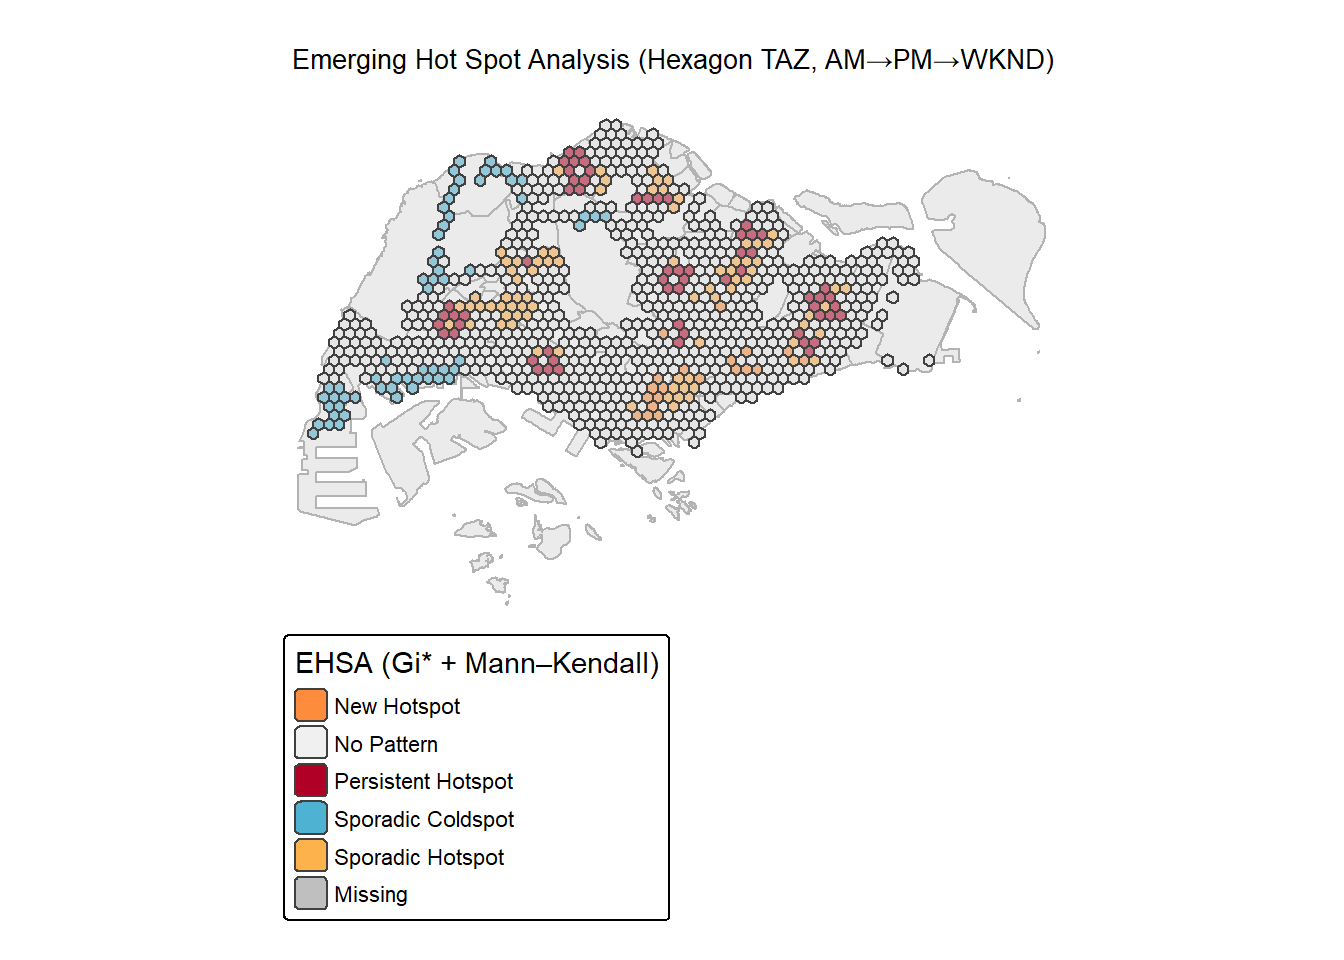
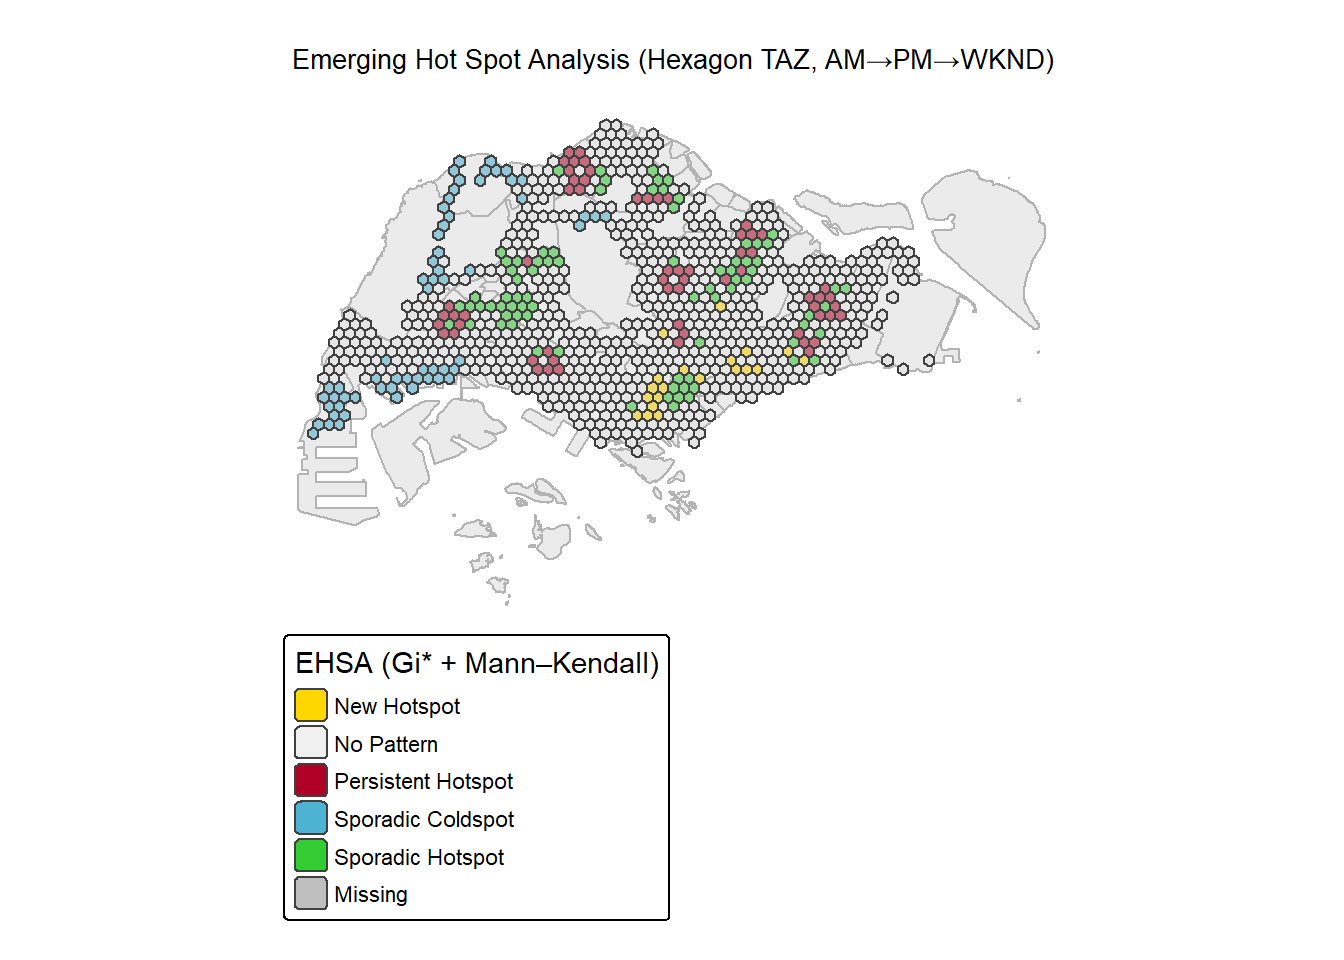
Full Assignment

diff --git a/_site/Take_Home_Exercise/Take_Home_Ex02/Take_Home_Ex02.html b/_site/Take_Home_Exercise/Take_Home_Ex02/Take_Home_Ex02.html
@@ -309,7 +309,7 @@ pre > code.sourceCode > span > a:first-child::before { text-decoration: underlin
     <div>
     <div class="quarto-title-meta-heading">Modified</div>
     <div class="quarto-title-meta-contents">
-      <p class="date-modified">October 22, 2025</p>
+      <p class="date-modified">October 23, 2025</p>
     </div>
   </div>
     
@@ -1004,6 +1004,15 @@ Calling <code>run_lisa_period("WKD_AM")</code> runs the analysis for <strong>wee
 </section>
 <section id="emerging-hot-spot-analysis-ehsa" class="level2" data-number="7">
 <h2 data-number="7" class="anchored" data-anchor-id="emerging-hot-spot-analysis-ehsa"><span class="header-section-number">7</span> Emerging Hot Spot Analysis (EHSA)</h2>
+<p>The code below converts the <code>PERIOD</code> column in the <code>hex_period_sf</code> dataset into a categorical variable (factor) with a defined order of levels.</p>
+<ol type="1">
+<li>The <code>mutate()</code> function is used to modify the existing dataset <code>hex_period_sf</code>.<br>
+</li>
+<li>The <code>PERIOD</code> variable is converted into a factor using <code>factor()</code>.<br>
+</li>
+<li>The <code>levels</code> argument explicitly sets the desired order of categories as <code>"WKD_AM"</code>, <code>"WKD_PM"</code>, and <code>"WKND"</code>.</li>
+</ol>
+<p>This ensures that when plotting or summarizing data, the periods will appear in a consistent and logical order: weekday morning → weekday evening → weekend.</p>
 <div class="cell">
 <div class="sourceCode cell-code" id="cb32"><pre class="sourceCode r code-with-copy"><code class="sourceCode r"><span id="cb32-1"><a href="#cb32-1" aria-hidden="true" tabindex="-1"></a>hex_period_sf <span class="ot">&lt;-</span> hex_period_sf <span class="sc">%&gt;%</span></span>
 <span id="cb32-2"><a href="#cb32-2" aria-hidden="true" tabindex="-1"></a><span class="fu">mutate</span>(<span class="at">PERIOD =</span> <span class="fu">factor</span>(PERIOD, <span class="at">levels =</span> <span class="fu">c</span>(<span class="st">"WKD_AM"</span>,<span class="st">"WKD_PM"</span>,<span class="st">"WKND"</span>)))</span></code><button title="Copy to Clipboard" class="code-copy-button"><i class="bi"></i></button></pre></div>
@@ -1029,6 +1038,7 @@ Calling <code>run_lisa_period("WKD_AM")</code> runs the analysis for <strong>wee
 </div>
 <section id="ehsa-2-local-gi-per-period-and-significance" class="level3" data-number="7.1">
 <h3 data-number="7.1" class="anchored" data-anchor-id="ehsa-2-local-gi-per-period-and-significance"><span class="header-section-number">7.1</span> EHSA 2 — Local Gi* (per period) and significance</h3>
+<p>This section performs the <strong>Local Gi*</strong> (Getis-Ord Gi*) analysis to identify statistically significant <em>hotspots</em> and <em>coldspots</em> of bus trip intensity for each time period (<code>PERIOD</code>).</p>
 <div class="cell">
 <div class="sourceCode cell-code" id="cb35"><pre class="sourceCode r code-with-copy"><code class="sourceCode r"><span id="cb35-1"><a href="#cb35-1" aria-hidden="true" tabindex="-1"></a>.z_to_sig <span class="ot">&lt;-</span> <span class="cf">function</span>(z, <span class="at">alpha =</span> <span class="fl">0.05</span>) {</span>
 <span id="cb35-2"><a href="#cb35-2" aria-hidden="true" tabindex="-1"></a>thr <span class="ot">&lt;-</span> <span class="fu">qnorm</span>(<span class="dv">1</span> <span class="sc">-</span> alpha<span class="sc">/</span><span class="dv">2</span>) <span class="co"># 1.96 for alpha=0.05</span></span>
@@ -1040,6 +1050,30 @@ Calling <code>run_lisa_period("WKD_AM")</code> runs the analysis for <strong>wee
 <span id="cb35-8"><a href="#cb35-8" aria-hidden="true" tabindex="-1"></a>}</span></code><button title="Copy to Clipboard" class="code-copy-button"><i class="bi"></i></button></pre></div>
 </div>
 <p>For each PERIOD: align to hex_base order, fill missing TRIPS with 0, run localG</p>
+<p>The code below performs the <strong>Local Gi*</strong> (Getis-Ord) hotspot analysis for each time period (<code>PERIOD</code>) to identify areas with significantly high or low bus trip activity.</p>
+<hr>
+<ol type="1">
+<li>The dataset <code>hex_period_sf</code> is used as input, and the geometry is removed using <code>st_drop_geometry()</code> since only attribute data is required for computation.<br>
+</li>
+<li>A <code>right_join()</code> aligns the trip data with a base hexagon layer (<code>hex_base</code>), ensuring all hexagons are included — even those with missing trip data.<br>
+</li>
+<li>The data is arranged by <code>PERIOD</code> and index (<code>.idx</code>) for consistent ordering.<br>
+</li>
+<li><code>mutate(TRIPS = replace_na(TRIPS, 0))</code> fills missing trip values with zeros to avoid calculation errors.<br>
+</li>
+<li>The dataset is grouped by <code>PERIOD</code>, meaning the hotspot analysis is performed separately for each time period.<br>
+</li>
+<li>Within each group, <code>spdep::localG()</code> calculates the <strong>Local Gi*</strong> z-scores based on the number of trips (<code>TRIPS</code>) and the spatial weights object (<code>lw_obj</code>).<br>
+</li>
+<li>The resulting z-scores are classified for statistical significance using the helper function <code>.z_to_sig()</code>.<br>
+</li>
+<li>The results are stored in a tibble containing the original attributes, computed z-scores (<code>z</code>), and significance category (<code>sig</code>).<br>
+</li>
+<li>After ungrouping, only relevant columns — <code>HEX_ID</code>, <code>PERIOD</code>, <code>.idx</code>, <code>TRIPS</code>, <code>z</code>, and <code>sig</code> — are retained.</li>
+</ol>
+<hr>
+<p><strong>In summary:</strong><br>
+This code computes the Local Gi* statistic for each hexagon across different time periods, identifying <strong>hotspots (high z-scores)</strong> and <strong>coldspots (low z-scores)</strong> based on the spatial distribution of bus trips.</p>
 <div class="cell">
 <div class="sourceCode cell-code" id="cb36"><pre class="sourceCode r code-with-copy"><code class="sourceCode r"><span id="cb36-1"><a href="#cb36-1" aria-hidden="true" tabindex="-1"></a>gi_by_period <span class="ot">&lt;-</span> hex_period_sf <span class="sc">%&gt;%</span></span>
 <span id="cb36-2"><a href="#cb36-2" aria-hidden="true" tabindex="-1"></a><span class="fu">st_drop_geometry</span>() <span class="sc">%&gt;%</span></span>
@@ -1057,6 +1091,40 @@ Calling <code>run_lisa_period("WKD_AM")</code> runs the analysis for <strong>wee
 </section>
 <section id="mannkendall-trend-category-assignment" class="level3" data-number="7.2">
 <h3 data-number="7.2" class="anchored" data-anchor-id="mannkendall-trend-category-assignment"><span class="header-section-number">7.2</span> Mann–Kendall trend &amp; category assignment</h3>
+<p>This code performs the <strong>Mann–Kendall trend test</strong> on the Local Gi* z-scores for each hexagon to detect temporal trends in hotspot and coldspot patterns over multiple periods.</p>
+<hr>
+<ol type="1">
+<li>The dataset <code>gi_by_period</code> (containing Local Gi* z-scores per hexagon and period) is arranged by <code>HEX_ID</code> and <code>PERIOD</code> to ensure chronological order.<br>
+</li>
+<li>The data is grouped by <code>HEX_ID</code>, so trend analysis is conducted <strong>individually for each hexagon</strong> across time.<br>
+</li>
+<li>The <code>summarise()</code> function computes several key statistics for each hexagon:
+<ul>
+<li><code>mk_tau</code>: The <strong>Kendall’s tau</strong> statistic from <code>Kendall::MannKendall(z)</code>, indicating the direction and strength of the trend:
+<ul>
+<li>Positive → increasing trend<br>
+</li>
+<li>Negative → decreasing trend<br>
+</li>
+<li>Near zero → no trend<br>
+</li>
+</ul></li>
+<li><code>mk_p</code>: The <strong>p-value</strong> of the test, assessing whether the trend is statistically significant.<br>
+</li>
+<li><code>latest_z</code>: The most recent z-score (<code>z</code>) value for that hexagon.<br>
+</li>
+<li><code>latest_sig</code>: The most recent significance classification (<code>sig</code>) value.<br>
+</li>
+<li><code>hot_count</code>: The total number of times the hexagon was identified as a <strong>hotspot</strong> (<code>sig == 1L</code>).<br>
+</li>
+<li><code>cold_count</code>: The total number of times it was identified as a <strong>coldspot</strong> (<code>sig == -1L</code>).</li>
+</ul></li>
+<li>The argument <code>.groups = "drop"</code> ensures that the grouped data is flattened after summarization.</li>
+</ol>
+<hr>
+<p><strong>In summary:</strong><br>
+This code evaluates whether each hexagon’s Local Gi* values show a statistically significant increasing or decreasing trend over time.<br>
+It produces a summary table (<code>mk_trends</code>) containing the Mann–Kendall statistics (<code>mk_tau</code>, <code>mk_p</code>), recent z-scores, and counts of hotspot or coldspot occurrences — which are later used for <strong>spatiotemporal hotspot classification</strong> in the EHSA (Emerging Hot Spot Analysis) framework.</p>
 <div class="cell">
 <div class="sourceCode cell-code" id="cb37"><pre class="sourceCode r code-with-copy"><code class="sourceCode r"><span id="cb37-1"><a href="#cb37-1" aria-hidden="true" tabindex="-1"></a>mk_trends <span class="ot">&lt;-</span> gi_by_period <span class="sc">%&gt;%</span></span>
 <span id="cb37-2"><a href="#cb37-2" aria-hidden="true" tabindex="-1"></a><span class="fu">arrange</span>(HEX_ID, PERIOD) <span class="sc">%&gt;%</span></span>
@@ -1072,6 +1140,60 @@ Calling <code>run_lisa_period("WKD_AM")</code> runs the analysis for <strong>wee
 <span id="cb37-12"><a href="#cb37-12" aria-hidden="true" tabindex="-1"></a>)</span></code><button title="Copy to Clipboard" class="code-copy-button"><i class="bi"></i></button></pre></div>
 </div>
 <p>EHSA rule-set (compact, robust for 3 time-slices)</p>
+<p>This function defines the rule-set for classifying <strong>Emerging Hot Spot Analysis (EHSA)</strong> categories based on spatial and temporal trends.<br>
+It integrates both spatial significance (hotspot or coldspot status) and temporal trends (from the Mann–Kendall test).</p>
+<hr>
+<p><strong>Function:</strong> <code>classify_ehsa(latest_sig, hot_count, cold_count, mk_tau, mk_p, alpha = 0.05)</code></p>
+<ol type="1">
+<li><strong>No Pattern Check</strong>
+<ul>
+<li>If there are no significant hotspot or coldspot occurrences (<code>hot_count + cold_count == 0</code>),<br>
+→ returns <code>"No Pattern"</code>.</li>
+</ul></li>
+<li><strong>Persistent Patterns</strong>
+<ul>
+<li>If all three time slices are significant hotspots → <code>"Persistent Hotspot"</code>.<br>
+</li>
+<li>If all three are significant coldspots → <code>"Persistent Coldspot"</code>.</li>
+</ul></li>
+<li><strong>Latest Slice = Hotspot (<code>latest_sig == 1L</code>)</strong>
+<ul>
+<li>If Mann–Kendall test is significant (<code>mk_p &lt; alpha</code>):
+<ul>
+<li>Positive trend (<code>mk_tau &gt; 0</code>) → <code>"Intensifying Hotspot"</code>.<br>
+</li>
+<li>Negative trend (<code>mk_tau &lt; 0</code>) → <code>"Diminishing Hotspot"</code>.<br>
+</li>
+</ul></li>
+<li>If only one slice shows a hotspot → <code>"New Hotspot"</code>.<br>
+</li>
+<li>Otherwise → <code>"Sporadic Hotspot"</code>.</li>
+</ul></li>
+<li><strong>Latest Slice = Coldspot (<code>latest_sig == -1L</code>)</strong>
+<ul>
+<li>If Mann–Kendall test is significant (<code>mk_p &lt; alpha</code>):
+<ul>
+<li>Negative trend (<code>mk_tau &lt; 0</code>) → <code>"Intensifying Coldspot"</code>.<br>
+</li>
+<li>Positive trend (<code>mk_tau &gt; 0</code>) → <code>"Diminishing Coldspot"</code>.<br>
+</li>
+</ul></li>
+<li>If only one slice shows a coldspot → <code>"New Coldspot"</code>.<br>
+</li>
+<li>Otherwise → <code>"Sporadic Coldspot"</code>.</li>
+</ul></li>
+<li><strong>Non-significant Latest Slice with Past Activity</strong>
+<ul>
+<li>If previous hotspots exist → <code>"Sporadic Hotspot"</code>.<br>
+</li>
+<li>If previous coldspots exist → <code>"Sporadic Coldspot"</code>.<br>
+</li>
+<li>Otherwise → <code>"No Pattern"</code>.</li>
+</ul></li>
+</ol>
+<hr>
+<p><strong>In summary:</strong><br>
+This rule-set categorizes each spatial unit (hexagon) into EHSA classes such as <em>Persistent</em>, <em>Intensifying</em>, <em>Diminishing</em>, <em>New</em>, <em>Sporadic</em>, or <em>No Pattern</em> based on how hotspot or coldspot patterns evolve across three time slices, using both spatial significance and temporal trend indicators</p>
 <div class="cell">
 <div class="sourceCode cell-code" id="cb38"><pre class="sourceCode r code-with-copy"><code class="sourceCode r"><span id="cb38-1"><a href="#cb38-1" aria-hidden="true" tabindex="-1"></a><span class="co"># --- EHSA classifier (fixed) -----------------------------------------------</span></span>
 <span id="cb38-2"><a href="#cb38-2" aria-hidden="true" tabindex="-1"></a>classify_ehsa <span class="ot">&lt;-</span> <span class="cf">function</span>(latest_sig, hot_count, cold_count, mk_tau, mk_p, <span class="at">alpha =</span> <span class="fl">0.05</span>) {</span>
@@ -1108,6 +1230,7 @@ Calling <code>run_lisa_period("WKD_AM")</code> runs the analysis for <strong>wee
 <span id="cb38-33"><a href="#cb38-33" aria-hidden="true" tabindex="-1"></a>  <span class="fu">return</span>(<span class="st">"No Pattern"</span>)</span>
 <span id="cb38-34"><a href="#cb38-34" aria-hidden="true" tabindex="-1"></a>}</span></code><button title="Copy to Clipboard" class="code-copy-button"><i class="bi"></i></button></pre></div>
 </div>
+<p>The two code chunks below apply the EHSA classification rules to each hexagon and then reattach the spatial geometry for mapping.</p>
 <div class="cell">
 <div class="sourceCode cell-code" id="cb39"><pre class="sourceCode r code-with-copy"><code class="sourceCode r"><span id="cb39-1"><a href="#cb39-1" aria-hidden="true" tabindex="-1"></a>ehsa_labels <span class="ot">&lt;-</span> mk_trends <span class="sc">%&gt;%</span></span>
 <span id="cb39-2"><a href="#cb39-2" aria-hidden="true" tabindex="-1"></a>  <span class="fu">rowwise</span>() <span class="sc">%&gt;%</span></span>
@@ -1122,14 +1245,16 @@ Calling <code>run_lisa_period("WKD_AM")</code> runs the analysis for <strong>wee
 </section>
 <section id="map-the-ehsa-categories" class="level3" data-number="7.3">
 <h3 data-number="7.3" class="anchored" data-anchor-id="map-the-ehsa-categories"><span class="header-section-number">7.3</span> Map the EHSA categories</h3>
+<p>This code visualizes the results of the Emerging Hot Spot Analysis (EHSA) using the <code>tmap</code> package.<br>
+It creates a choropleth map showing the spatial distribution of different EHSA categories (e.g., persistent, new, or intensifying hotspots/coldspots). - A custom color palette is created to represent each EHSA category. - Warm colors (reds and oranges) indicate hotspots, while cool colors (blues) indicate coldspots. - Grey represents areas with no discernible pattern.</p>
 <div class="cell">
 <div class="sourceCode cell-code" id="cb41"><pre class="sourceCode r code-with-copy"><code class="sourceCode r"><span id="cb41-1"><a href="#cb41-1" aria-hidden="true" tabindex="-1"></a><span class="co"># Palette</span></span>
 <span id="cb41-2"><a href="#cb41-2" aria-hidden="true" tabindex="-1"></a></span>
 <span id="cb41-3"><a href="#cb41-3" aria-hidden="true" tabindex="-1"></a>pal_ehsa <span class="ot">&lt;-</span> <span class="fu">c</span>(</span>
 <span id="cb41-4"><a href="#cb41-4" aria-hidden="true" tabindex="-1"></a><span class="st">"Persistent Hotspot"</span>     <span class="ot">=</span> <span class="st">"#b10026"</span>,</span>
 <span id="cb41-5"><a href="#cb41-5" aria-hidden="true" tabindex="-1"></a><span class="st">"Intensifying Hotspot"</span>   <span class="ot">=</span> <span class="st">"#fc4e2a"</span>,</span>
-<span id="cb41-6"><a href="#cb41-6" aria-hidden="true" tabindex="-1"></a><span class="st">"New Hotspot"</span>            <span class="ot">=</span> <span class="st">"#fd8d3c"</span>,</span>
-<span id="cb41-7"><a href="#cb41-7" aria-hidden="true" tabindex="-1"></a><span class="st">"Sporadic Hotspot"</span>       <span class="ot">=</span> <span class="st">"#feb24c"</span>,</span>
+<span id="cb41-6"><a href="#cb41-6" aria-hidden="true" tabindex="-1"></a><span class="st">"New Hotspot"</span>            <span class="ot">=</span> <span class="st">"#FFD700"</span>,</span>
+<span id="cb41-7"><a href="#cb41-7" aria-hidden="true" tabindex="-1"></a><span class="st">"Sporadic Hotspot"</span>       <span class="ot">=</span> <span class="st">"#32CD32"</span>,</span>
 <span id="cb41-8"><a href="#cb41-8" aria-hidden="true" tabindex="-1"></a><span class="st">"Diminishing Hotspot"</span>    <span class="ot">=</span> <span class="st">"#fdd0a2"</span>,</span>
 <span id="cb41-9"><a href="#cb41-9" aria-hidden="true" tabindex="-1"></a></span>
 <span id="cb41-10"><a href="#cb41-10" aria-hidden="true" tabindex="-1"></a><span class="st">"Persistent Coldspot"</span>    <span class="ot">=</span> <span class="st">"#084081"</span>,</span>
@@ -1160,11 +1285,16 @@ Calling <code>run_lisa_period("WKD_AM")</code> runs the analysis for <strong>wee
 </div>
 <p>The Emerging Hot Spot Analysis reveals evolving spatio-temporal patterns of bus trip generation across Singapore between weekday morning (AM), weekday evening (PM), and weekend periods.</p>
 <p>Persistent and new hotspots (in red and orange) are concentrated in the eastern and central corridors—notably Tampines, Bedok, Hougang, and Toa Payoh—indicating consistently high and intensifying passenger demand in mature residential estates. These areas serve as key origin zones for commuters traveling toward central employment hubs during weekdays and leisure destinations on weekends. The presence of new hotspots along the Punggol–Sengkang and Jurong East regions suggests expanding commuter activity in newer towns and mixed-use developments.</p>
-<p>Sporadic hotspots (light orange) appear intermittently around the Downtown Core and Orchard, reflecting fluctuating weekend and off-peak ridership linked to shopping and recreation. Conversely, sporadic coldspots (blue) dominate the western industrial belt (Tuas) and northern rural areas (Lim Chu Kang, Seletar), where population density and public transit dependence remain low.</p>
+<p>Sporadic hotspots appear intermittently around the Downtown Core and Orchard, reflecting fluctuating weekend and off-peak ridership linked to shopping and recreation. Conversely, sporadic coldspots (blue) dominate the western industrial belt (Tuas) and northern rural areas (Lim Chu Kang, Seletar), where population density and public transit dependence remain low.</p>
+<p>In the Emerging Hot Spot Analysis of bus trips, a New Hotspot represents an area (hexagon) where bus trip activity has recently increased significantly, forming a new cluster of high values that was not observed in earlier time periods. This means the location was not previously a hotspot during the weekday AM or PM periods, but has now emerged as one often during the weekend.</p>
 <p>Overall, the EHSA confirms that bus trip generation in Singapore is <strong>spatially structured and temporally dynamic</strong>, driven by residential–employment linkages during weekdays and leisure mobility during weekends. The identification of emerging and persistent hotspots provides actionable insight for LTA planners to prioritize service frequency adjustments and ensure equitable accessibility across high-growth corridors.</p>
 </section>
 <section id="diagnostics-gi-facets-counts-table" class="level3" data-number="7.4">
 <h3 data-number="7.4" class="anchored" data-anchor-id="diagnostics-gi-facets-counts-table"><span class="header-section-number">7.4</span> Diagnostics: Gi* facets + counts table</h3>
+<p>This section creates diagnostic maps to visually assess the results of the Local Gi* (Getis-Ord) analysis across different time periods.</p>
+<p>First, the dataset combines the base hexagon geometry with the Gi* results to ensure that each spatial unit (hexagon) includes both its spatial position and the computed z-scores. A new variable is added to label each hexagon based on its statistical significance — whether it represents a significant hotspot, a significant coldspot, or is not significant at all.</p>
+<p>Once the dataset is prepared, the code switches the mapping mode to static plotting and constructs a faceted map using <code>tmap</code>. The base planning area boundaries are displayed in light grey to provide spatial context. Each hexagon is then colored according to its Gi* z-score using a diverging red-blue palette, where red shades indicate hotspots (high positive z-scores) and blue shades indicate coldspots (low negative z-scores). The midpoint is set at zero to emphasize the separation between hot and cold clusters.</p>
+<p>Finally, the map is faceted by time period, producing side-by-side panels for each temporal slice (for example, weekday AM, weekday PM, and weekend). This allows for easy comparison of how spatial clustering patterns vary over time and helps identify areas that consistently show hotspot or coldspot behavior.</p>
 <div class="cell">
 <div class="sourceCode cell-code" id="cb42"><pre class="sourceCode r code-with-copy"><code class="sourceCode r"><span id="cb42-1"><a href="#cb42-1" aria-hidden="true" tabindex="-1"></a>gi_map_sf <span class="ot">&lt;-</span> hex_base <span class="sc">%&gt;%</span></span>
 <span id="cb42-2"><a href="#cb42-2" aria-hidden="true" tabindex="-1"></a><span class="fu">left_join</span>(gi_by_period, <span class="at">by =</span> <span class="fu">c</span>(<span class="st">"HEX_ID"</span>, <span class="st">".idx"</span>)) <span class="sc">%&gt;%</span></span>
@@ -1238,6 +1368,9 @@ Calling <code>run_lisa_period("WKD_AM")</code> runs the analysis for <strong>wee
 </table>
 </div>
 </div>
+<p>The EHSA summary shows that a large majority of hexagons (613) fall under No Pattern, meaning these areas exhibit stable, non-significant variation in trip generation across time. Among significant categories, Sporadic Hotspots (80) and Persistent Hotspots (61) dominate, marking consistently or recurrently high ridership zones in dense residential and mixed-use districts such as Tampines, Bedok, Hougang, and Toa Payoh. These locations sustain strong commuter flows throughout both weekday and weekend periods.</p>
+<p>Sporadic Coldspots (60) correspond mainly to the western industrial and northern fringe regions (e.g., Tuas, Lim Chu Kang, Seletar), where passenger volumes remain intermittently low. The New Hotspots (20) highlight recently emerging growth areas—particularly Jurong East and Punggol—where new developments and expanded bus services have intensified ridership.</p>
+<p>Overall, the pattern indicates a spatially stable but evolving bus network, with established hotspots maintaining strong demand and new hotspots signaling areas of increasing travel activity. These insights can help guide targeted service enhancements and network planning in Singapore’s growing residential corridors.</p>
 
 
 </section>
